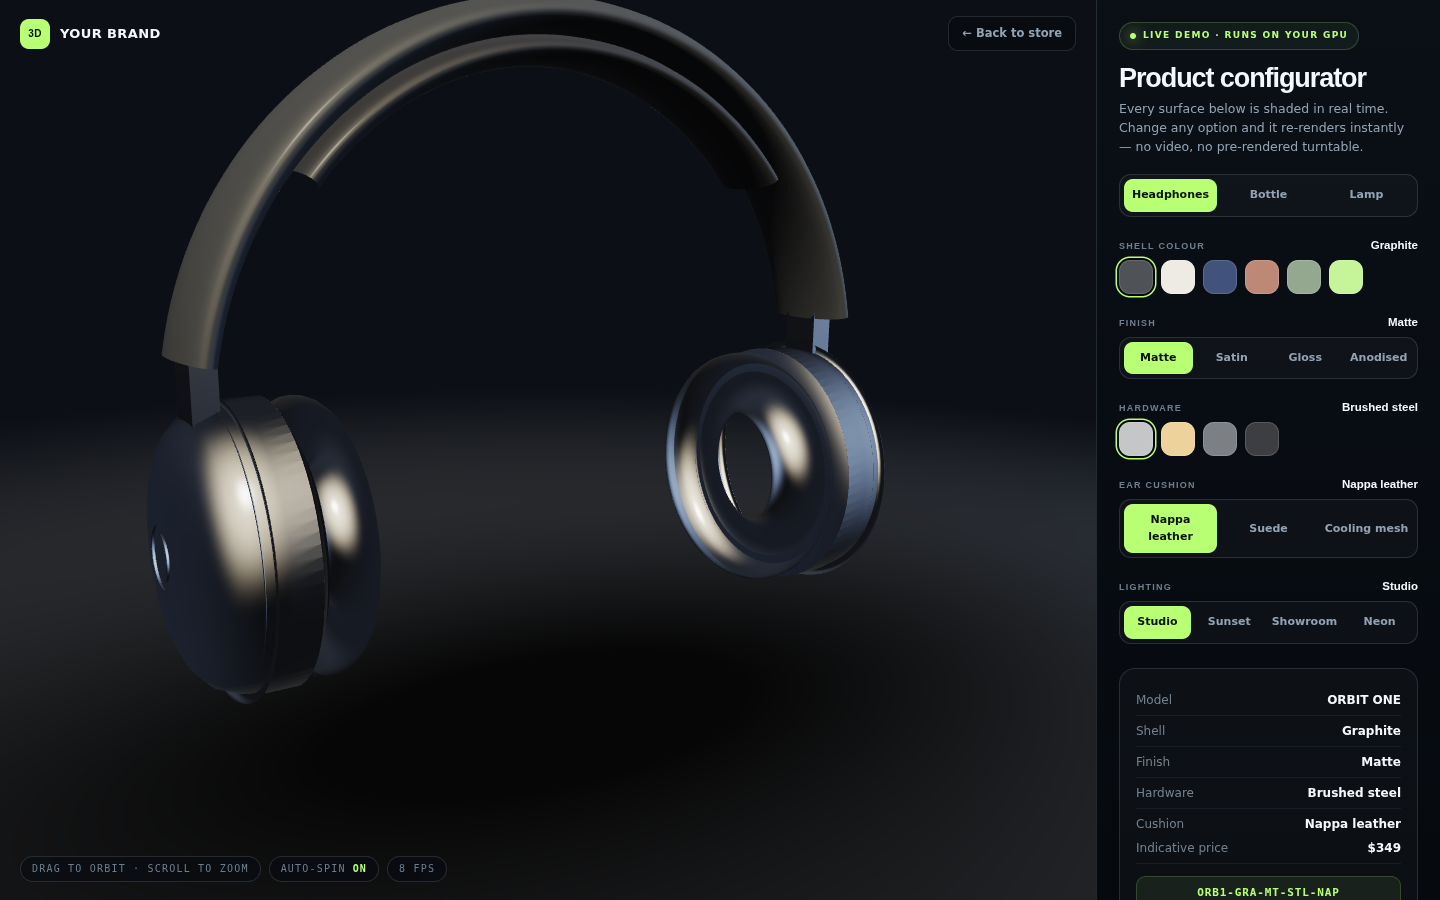
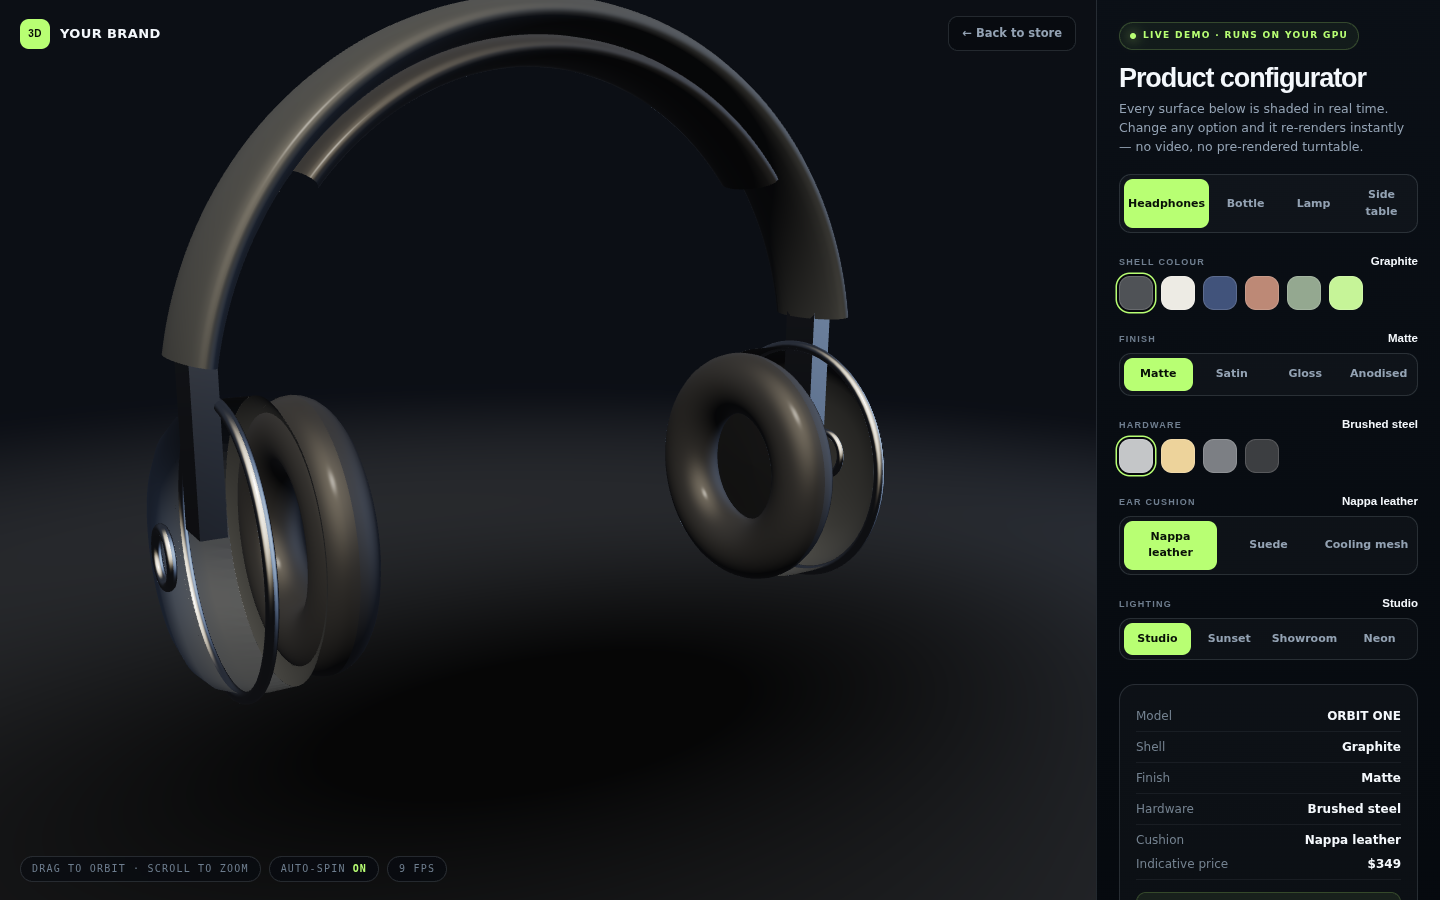
Carry the winding fix and the side table into the template
Picks up the corrected lathe() winding and the side table from the parent
branch, and re-exports the template on them. The winding fix is the reason
every preview screenshot is regenerated: material choices that previously
resolved to grey now resolve to the colour the buyer actually picked.

Two additions to the README's "adding a product" section, both of which cost
real time here and would cost a buyer the same:

- the bottom-to-top profile rule now says what actually goes wrong. lathe()
  derives the triangle winding as well as the normals from the direction of
  travel, so a top-down profile is not merely unlit — a flat cap vanishes
  outright, because backface culling removes it. "Dark or missing" is the
  symptom to look for.
- how add() places a part, and specifically that arraying something around an
  axis with an outward splay needs rotation about X before Y, since the
  compose order is Rz*Ry*Rx. Doing it the other way tilts every copy in the
  same world direction rather than its own. The table's legs are the worked
  example.

Claude-Session: https://claude.ai/code/session_01NKCR5wESwo1fq5VH4T8GRn

diff --git a/products/3d-configurator-template/index.html b/products/3d-configurator-template/index.html
@@ -293,7 +293,12 @@ function lathe(profile, segments, opts) {
   }
   for (let s = 0; s < segments; s++) for (let i = 0; i < n - 1; i++) {
     const a = s * n + i, b = a + n;
-    idx.push(a, b, a + 1, a + 1, b, b + 1);
+    // Wound so the face normal agrees with the shading normal: for a profile
+    // running bottom-to-top, cross((a+1)-a, b-a) points outward. The reverse
+    // order leaves every lathed surface front-facing on its INSIDE, which
+    // backface culling then removes — a flat cap vanishes outright, and a
+    // closed shape merely looks subtly wrong.
+    idx.push(a, a + 1, b, a + 1, b + 1, b);
   }
   return { pos: new Float32Array(pos), nor: new Float32Array(nor), idx: new Uint16Array(idx) };
 }
@@ -647,6 +652,59 @@ const PRODUCTS = {
       add(gDome,    'baseDome',    [0,0,0]);
       add(gPlatter, 'basePlatter', [0,0,0]);
       add(gSwitch,  'switch', [0.052,0,0]);
+    }
+  },
+
+  table: {
+    label: 'Side table', name: 'FORM 62', codePrefix: 'FRM1', basePrice: 185,
+    camera: { yaw: -0.55, pitch: 0.20, dist: 4.30, target: [0, -0.04, 0] },
+    aoX: 1.0, groundY: -0.864,
+    groups: [
+      { key:'top', label:'Table top', kind:'swatch', spec:'Top', items:[
+        { id:'OAK', name:'White oak', c:[0.470,0.330,0.170], r:0.70, m:0.0, price:0  },
+        { id:'WAL', name:'Walnut',    c:[0.155,0.080,0.042], r:0.62, m:0.0, price:35 },
+        { id:'MAR', name:'Carrara',   c:[0.790,0.790,0.775], r:0.22, m:0.0, price:90 },
+        { id:'CHR', name:'Charcoal',  c:[0.040,0.042,0.048], r:0.66, m:0.0, price:12 },
+        { id:'SGE', name:'Sage',      c:[0.255,0.330,0.235], r:0.68, m:0.0, price:12 },
+        { id:'BRS', name:'Brass',     c:[0.780,0.590,0.270], r:0.26, m:1.0, price:120 }]},
+      { key:'finish', label:'Top finish', kind:'seg', spec:'Finish', items:[
+        { id:'MT', name:'Matte',  dr: 0.10, price:0  },
+        { id:'OL', name:'Oiled',  dr:-0.06, price:14 },
+        { id:'LQ', name:'Lacquer',dr:-0.42, price:26 }]},
+      { key:'legs', label:'Legs', kind:'swatch', spec:'Legs', items:[
+        { id:'BLK', name:'Black steel', c:[0.028,0.030,0.034], r:0.58, m:0.0, price:0  },
+        { id:'BRS', name:'Brass',       c:[0.780,0.590,0.270], r:0.30, m:1.0, price:48 },
+        { id:'CHR', name:'Chrome',      c:[0.560,0.570,0.585], r:0.10, m:1.0, price:36 },
+        { id:'OAK', name:'White oak',   c:[0.470,0.330,0.170], r:0.70, m:0.0, price:20 }]},
+      { key:'ring', label:'Stretcher', kind:'seg', spec:'Stretcher', items:[
+        { id:'RNG', name:'Ring', price:24, on:true  },
+        { id:'NON', name:'None', price:0,  on:false }]}
+    ],
+    material(key, o) {
+      if (key === 'top') {
+        // Finish shifts the top's roughness rather than replacing it, so a
+        // lacquered oak still reads as oak and not as plastic.
+        return { c: o.top.c, m: o.top.m, r: Math.min(Math.max(o.top.r + o.finish.dr, 0.05), 1.0) };
+      }
+      return { c: o.legs.c, m: o.legs.m, r: o.legs.r };
+    },
+    hidden(key, o) { return key === 'ring' && !o.ring.on; },
+    build(up, add) {
+      // Profiles run bottom-to-top: centre of the underside, out along it, up
+      // the rim, then back in across the face.
+      const gTop = up(lathe([
+        [0,0.440],[0.560,0.440],[0.600,0.446],[0.618,0.458],
+        [0.620,0.474],[0.616,0.490],[0.598,0.500],[0,0.500]
+      ], 96));
+      const gLeg  = up(box(0.052, 1.330, 0.052));
+      const gRing = up(ring(0.455, 0.0165, -0.470, 72, 14));
+      const tilt = -0.107;   // ~6 degrees: top of each leg leans in, foot splays out
+      for (let i = 0; i < 3; i++) {
+        const a = (i / 3) * TAU;
+        add(gLeg, 'leg', [0.492 * Math.sin(a), -0.205, 0.492 * Math.cos(a)], [tilt, a, 0]);
+      }
+      add(gTop,  'top',  [0,0,0]);
+      add(gRing, 'ring', [0,0,0]);
     }
   }
 };

diff --git a/products/3d-configurator-template/README.md b/products/3d-configurator-template/README.md
@@ -4,12 +4,12 @@ A product configurator that runs in the customer's browser. They change the
 colour, finish, hardware and cushion and the product re-renders immediately —
 not a video, not a pre-rendered turntable, not a sprite sheet.
 
-**Three complete products. One file. 48 KB. Zero dependencies.**
+**Four complete products. One file. 51 KB. Zero dependencies.**
 
-Headphones, a cosmetic bottle and a table lamp, switchable from a tab, all
-drawn by one renderer — because the question you are really asking is "will
-this work for *my* product", and three unrelated shapes is the only honest
-answer to that.
+Headphones, a cosmetic bottle, a table lamp and a three-legged side table,
+switchable from a tab, all drawn by one renderer — because the question you
+are really asking is "will this work for *my* product", and four unrelated
+shapes is the only honest answer to that.
 
 No three.js. No framework. No CDN request. No `.glb`, `.gltf`, `.obj` or
 texture files to download — the geometry is generated in code when the page
@@ -47,11 +47,12 @@ Everything lives in one file, in this order:
 | Which product loads first | `CONFIG.defaultProduct` |
 | The four lighting presets | the `ENVS` array (shared by all products) |
 
-### Adding a fourth product
+### Adding a fifth product
 
 Add one entry to `PRODUCTS` and it appears in the switcher. Nothing else
-changes — the renderer knows nothing about headphones, bottles or lamps. The
-lamp was added exactly this way: one object, no other edit.
+changes — the renderer knows nothing about headphones, bottles, lamps or
+tables. The lamp and the table were both added exactly this way: one object
+each, no other edit.
 
 ```js
 candle: {
@@ -71,9 +72,17 @@ to drop a part entirely: the bottle uses it so the "None" label option removes
 the band instead of painting it, and the lamp uses it to swap between three
 different base geometries from one control.
 
-**Profiles must run bottom-to-top.** `lathe()` derives outward normals from the
-direction of travel, so a profile written top-down comes out inside-out and
-renders unlit. If a new part looks strangely dark, check this first.
+**Profiles must run bottom-to-top.** `lathe()` derives both the outward normals
+and the triangle winding from the direction of travel, so a profile written
+top-down comes out inside-out: it renders unlit, and a flat cap disappears
+entirely because backface culling removes it. If a new part looks strangely
+dark or is missing, check this first.
+
+**Parts are placed with `add(geometry, partName, position, rotation)`**, where
+rotation is `[x, y, z]` applied as Rz·Ry·Rx. To array something around an axis
+and splay it outward — the table's legs — rotate about X first and then about
+Y: `[tilt, angle, 0]`. Doing it the other way tilts every copy in the same
+world direction instead of its own.
 
 ### Colours are linear, not hex
 
